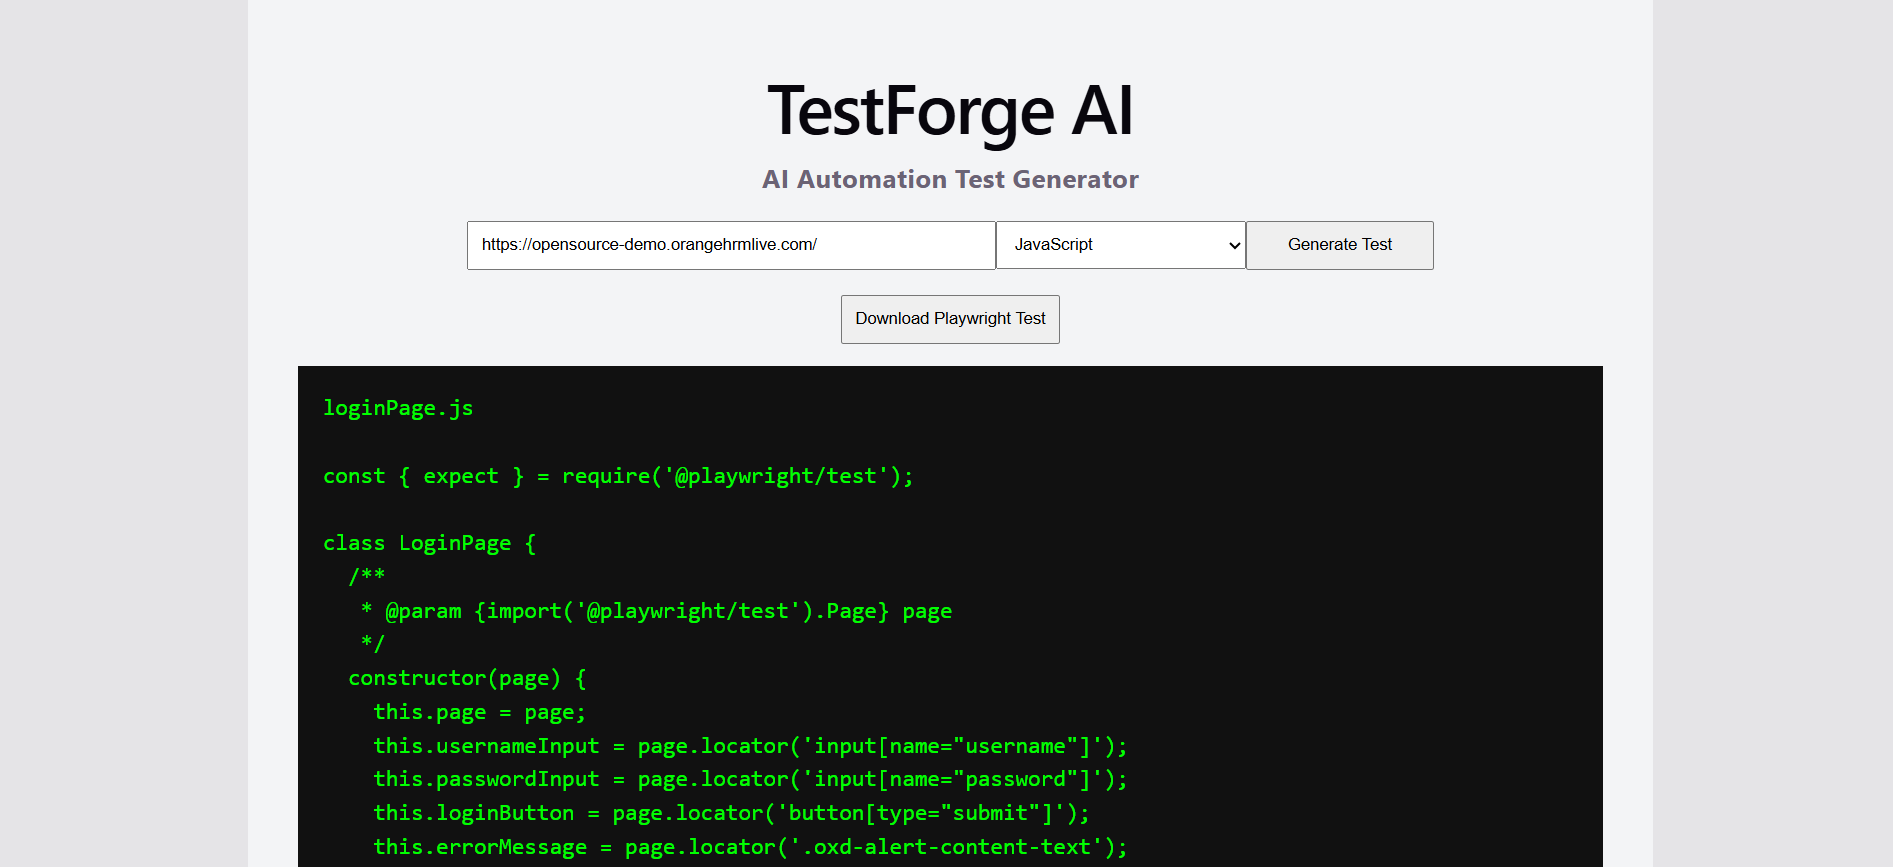
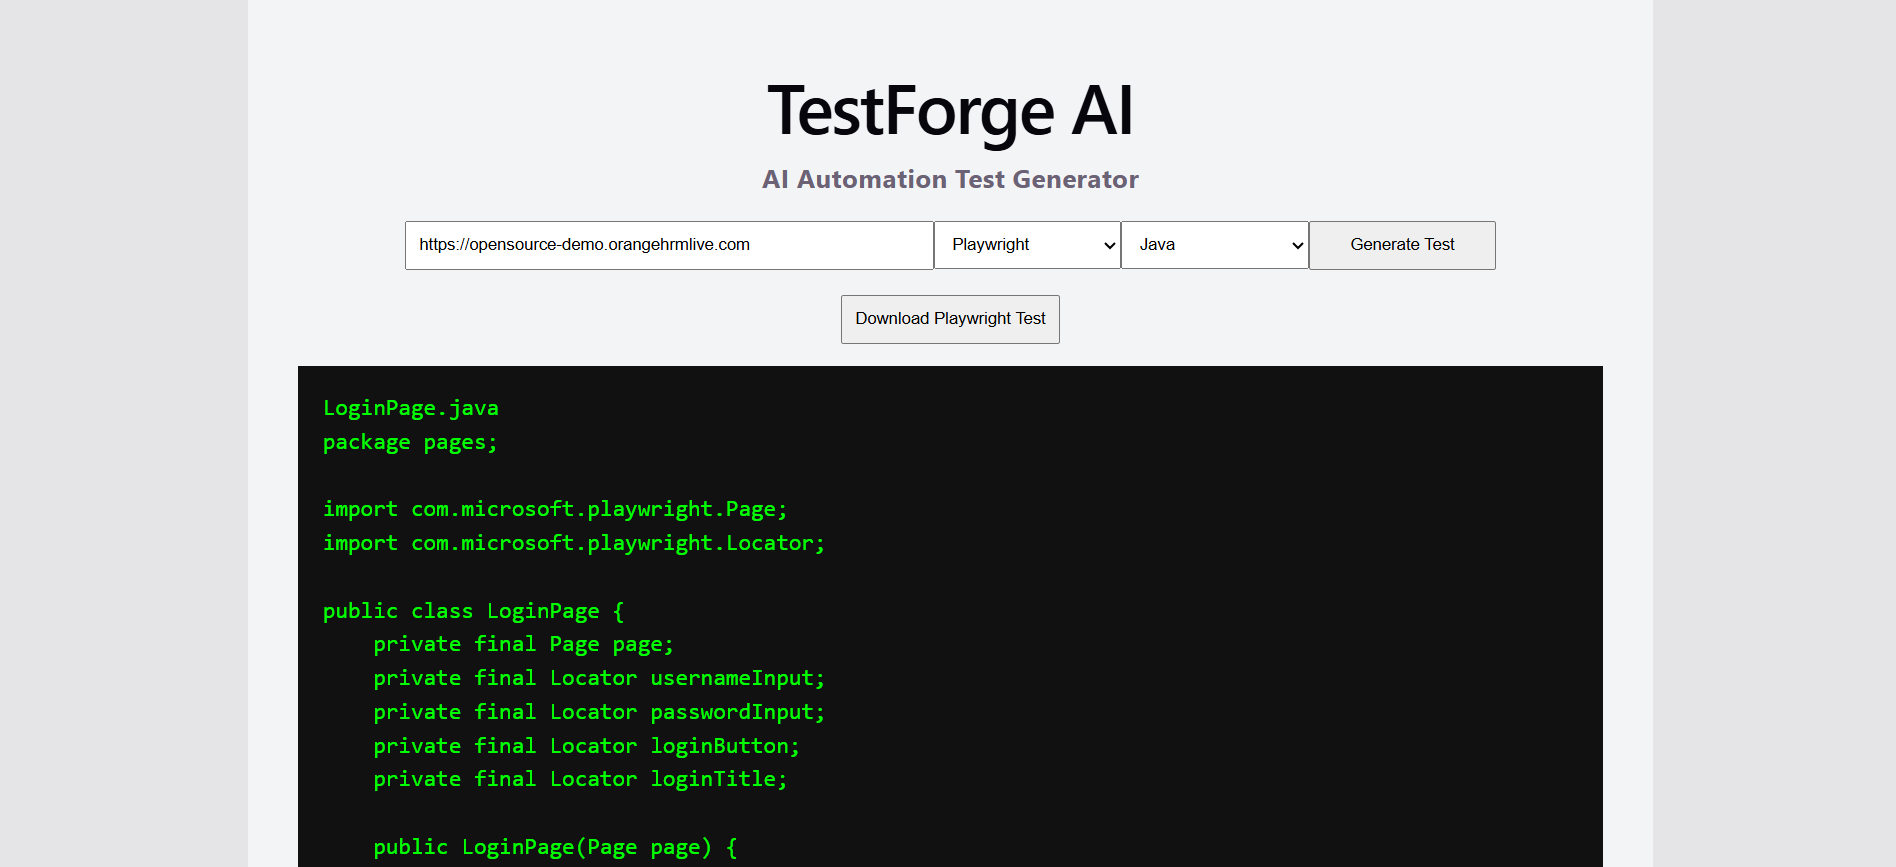
Added options for automation tools

diff --git a/frontend/src/components/UrlInput.jsx b/frontend/src/components/UrlInput.jsx
@@ -1,35 +1,42 @@
 import { useState } from "react";
 import { generateTest } from "../services/api";
+import automationConfig from "../utils/automationConfig.json";
 
 export default function UrlInput({ setCode }) {
 
     const [url, setUrl] = useState("");
-    const [language, setLanguage] = useState("JavaScript");
+    const tools = Object.keys(automationConfig);
+    const [automationTool, setAutomationTool] = useState(tools[0]);
+    const [language, setLanguage] = useState(
+        automationConfig[tools[0]][0]
+    );
     const [loading, setLoading] = useState(false);
 
+    const handleToolChange = (tool) => {
+
+        setAutomationTool(tool);
+
+        setLanguage(automationConfig[tool][0]);
+    };
+
     const handleGenerate = async () => {
-
         setLoading(true);
-
         try {
-
-            const res = await generateTest({ url, language });
-
+            const res = await generateTest({
+                url,
+                automationTool,
+                language
+            });
             setCode(res.data.code);
 
         } catch (err) {
-
             alert("Generation failed");
-
         }
-
         setLoading(false);
     };
 
     return (
-
         <div>
-
             <input
                 value={url}
                 onChange={(e) => setUrl(e.target.value)}
@@ -38,15 +45,30 @@ export default function UrlInput({ setCode }) {
             />
 
             <select
+                value={automationTool}
+                onChange={(e) => handleToolChange(e.target.value)}
+                style={{ width: "150px", padding: "10px", marginBottom: "10px" }}
+            >
+                {tools.map((tool) => (
+                    <option key={tool} value={tool}>
+                        {tool}
+                    </option>
+                ))}
+            </select>
+
+            <select
                 value={language}
                 onChange={(e) => setLanguage(e.target.value)}
-                style={{ width: "200px", padding: "10px", marginBottom: "10px" }}
+                style={{ width: "150px", padding: "10px", marginBottom: "10px" }}
             >
-                <option>JavaScript</option>
-                <option>TypeScript</option>
-                <option>Python</option>
-                <option>Java</option>
-                <option>C#</option>
+
+                {automationConfig[automationTool].map((lang) => (
+
+                    <option key={lang} value={lang}>
+                        {lang}
+                    </option>
+
+                ))}
             </select>
 
             <button
@@ -59,5 +81,6 @@ export default function UrlInput({ setCode }) {
             {loading && <p>Generating...</p>}
 
         </div>
+
     );
 }

diff --git a/backend/src/prompts/playwrightPrompt.js b/backend/src/prompts/playwrightPrompt.js
@@ -1,9 +1,9 @@
-export function buildPrompt(url, html, language) {
+export function buildPrompt(url, html, automationTool, language) {
 
     return `
 You are a senior QA automation engineer.
 
-Analyze the provided website HTML and generate Playwright automation code
+Analyze the provided website HTML and generate ${automationTool} automation code
 using the Page Object Model design pattern.
 
 Website URL:
@@ -17,8 +17,8 @@ ${language}
 
 Requirements:
 
-- Use Playwright with ${language}
-- Follow Playwright best practices for ${language}
+- Use ${automationTool} with ${language}
+- Follow ${automationTool} best practices for ${language}
 - Use async/await or the appropriate syntax for ${language}
 - Use realistic selectors derived from the HTML
 - Follow the Page Object Model architecture
@@ -38,7 +38,7 @@ Output Structure:
 Generate multiple files including:
 
 1. One or more Page Object classes
-2. One or more Playwright test files
+2. One or more ${automationTool} test files
 
 Each Page Object:
 - Represents a UI page or component

diff --git a/backend/src/controllers/testController.js b/backend/src/controllers/testController.js
@@ -6,7 +6,7 @@ export const generateTest = async (req, res) => {
 
     try {
 
-        const { url, language } = req.body;
+        const { url, automationTool, language } = req.body;
 
         if (!url) {
             return res.status(400).json({ error: "URL required" });
@@ -18,7 +18,7 @@ export const generateTest = async (req, res) => {
 
         console.log("Generating AI test...");
 
-        const testCode = await generatePlaywrightTest(url, html, language);
+        const testCode = await generatePlaywrightTest(url, html, automationTool, language);
 
         const filePath = `generated-tests/generated.spec`;
 

diff --git a/backend/src/services/aiService.js b/backend/src/services/aiService.js
@@ -8,9 +8,9 @@ const client = new OpenAI({
     apiKey: process.env.OPENAI_API_KEY
 });
 
-export async function generatePlaywrightTest(url, html, language) {
+export async function generatePlaywrightTest(url, html, automationTool, language) {
 
-    const prompt = buildPrompt(url, html, language);
+    const prompt = buildPrompt(url, html, automationTool, language);
 
     const response = await client.chat.completions.create({
         model: "gpt-4.1-mini",

diff --git a/frontend/src/components/CodeViewer.jsx b/frontend/src/components/CodeViewer.jsx
@@ -1,8 +1,9 @@
 export default function CodeViewer({ code }) {
 
     const cleaned = code
-        .replace(/```javascript/g, "")
-        .replace(/```/g, "");
+        .replace(/```[a-zA-Z]*\n?/g, "")
+        .replace(/```/g, "")
+        .trim();
 
     const downloadFile = () => {
 
